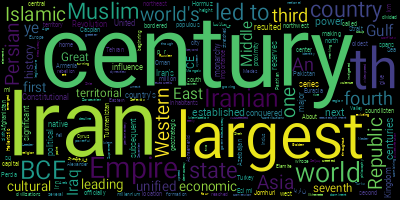
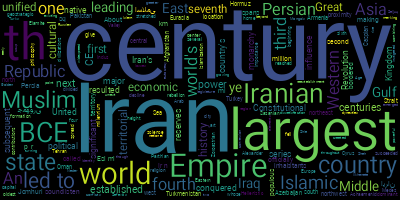
Update wordcloud to 1.8.2.2 (#25)
* Update wordcloud to 1.8.2.2

* Remove unwanted print in mixed example

diff --git a/setup.py b/setup.py
@@ -8,7 +8,7 @@ with open(path.join(this_directory, 'README.md'), encoding='utf-8') as f:
 setup(
     name='wordcloud_fa',
     packages=['wordcloud_fa'],
-    version='0.1.9',
+    version='0.1.10',
     license='MIT',
     description='A wrapper for wordcloud module for creating persian (and other rtl languages) word cloud.',
     long_description=long_description,
@@ -16,7 +16,7 @@ setup(
     author='Mohammadreza Alihoseiny',
     author_email='salam@alihoseiny.ir',
     url='https://github.com/alihoseiny/word_cloud_fa',
-    download_url='https://github.com/alihoseiny/word_cloud_fa/archive/V0.1.9.tar.gz',
+    download_url='https://github.com/alihoseiny/word_cloud_fa/archive/V0.1.10.tar.gz',
     keywords=['wordcloud', 'word cloud', 'Farsi', 'persian', 'Iran', 'nlp', 'National Language Processing',
               'text processing', 'data visualization'],
     install_requires=[
@@ -26,7 +26,7 @@ setup(
         'arabic_reshaper>=2.1.3',
         'python-bidi==0.4.2',
         'wordcloud==1.8.2.2',
-        'hazm',
+        'hazm==0.7.0',
     ],
     package_data={'wordcloud_fa': ['stopwords', 'Fonts/font.ttf']},
 )

diff --git a/Examples/mixed-example.py b/Examples/mixed-example.py
@@ -1,9 +1,10 @@
 from wordcloud_fa import WordCloudFa
 
-wodcloud = WordCloudFa(persian_normalize=True, include_numbers=False, background_color="white")
-text = ""
+wodcloud = WordCloudFa(persian_normalize=True, include_numbers=False, background_color="white", stopwords={'[', ']', '[]', '] [', '[ ]', '] .', ')', '('}, no_reshape=True)
+
 with open('mixed-example.txt', 'r') as file:
     text = file.read()
+
 wc = wodcloud.generate(text)
 image = wc.to_image()
 image.show()

diff --git a/CHANGELOG.md b/CHANGELOG.md
@@ -1,3 +1,5 @@
+# 0.1.10
+- Wordcloud version updated.
 # 0.1.9
 - Support for python 3.9.x added.
 # 0.1.6
